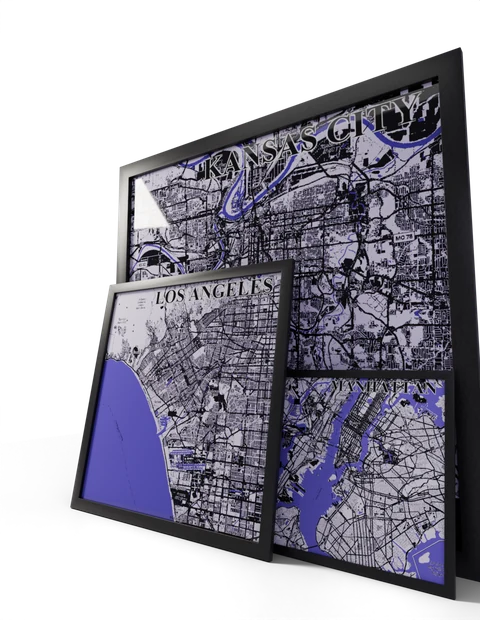
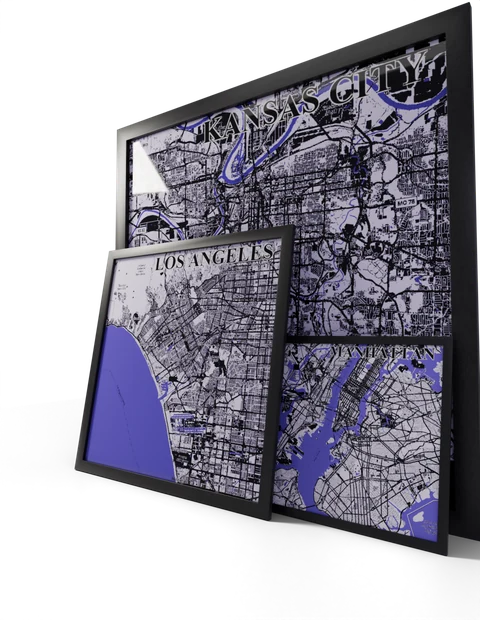
Art frame trio: tighter vertical centering
Look-at z dropped from 2.00 to 1.70 to match the trio's area-weighted
z-center — KC + LA + NY now fill the card vertically with no excess
floor or sky space.

diff --git a/scripts/render_mount_objects_v2.py b/scripts/render_mount_objects_v2.py
@@ -217,7 +217,7 @@ ICONS = {
         "multi_frame": True,
         "camera_fov_deg": 65,
         "camera_pos":     (2.50, -3.50, 1.50),
-        "camera_look_at": (0.00,  0.00, 2.00),
+        "camera_look_at": (0.00,  0.00, 1.70),
     },
     "floating-shelves": {
         "glb":     "sketchfab_floating_shelves_scandi_clean.glb",
